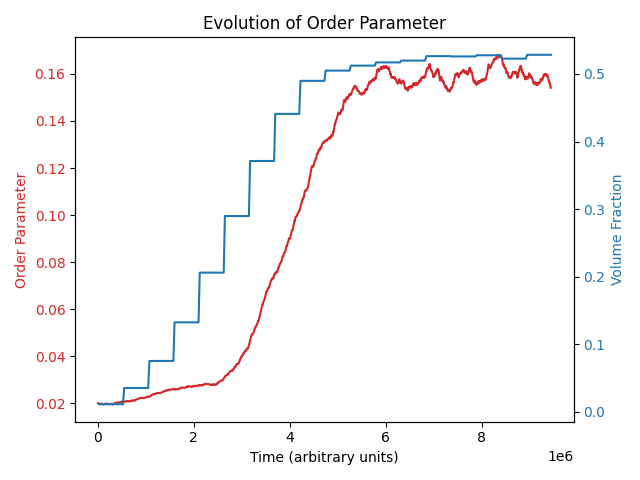
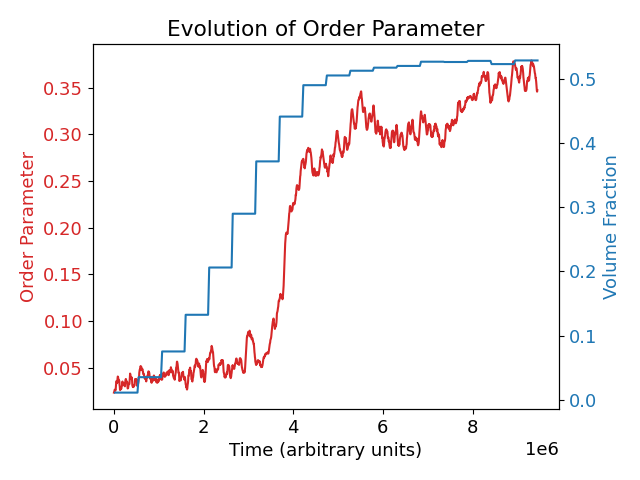
Reconfigured order parameter

Changed region(s): [[0.0, 0.0312, 0.9688, 0.9688]]

diff --git a/Phase_Structure/Rigid_Rods2/director_plot.py b/Phase_Structure/Rigid_Rods2/director_plot.py
@@ -4,9 +4,9 @@ from scipy.ndimage import uniform_filter1d  # for rolling average
 import pickle
 
 file_root = "output_T_0.5_time_"  # two underscores to match typo in previous code
-sampling_freq = 10  # only samples one in X files (must be integer)
+sampling_freq = 1  # only samples one in X files (must be integer)
 
-# plt.rcParams.update({"font.size": 18}) #for figures to go into latex at halfwidth
+plt.rcParams.update({"font.size": 13})  # for figures to go into latex at halfwidth
 
 # READ PARAMETER VALUES FROM LOG FILE
 
@@ -86,38 +86,16 @@ print(time_for_vf)
 
 # time_range = range(0, 3300000, 100000)  # FOR SIMPLICITY IN TESTING
 
-# DEFINE FUNCTION TO FIND DIRECTOR FROM OUTPUT DATA
+
 def order_param(data):
     """Input data in array of size Molecule Number x 3 x 3
 
-    Order param is defined as ave((3cos^2(theta)-1)/2) where theta is the angle between
-    the molecule director and mean director
-
     Input data will be rod_positions array which stores input data   
     First index gives molecule number
     Second index gives particle number within molecule (first/last)
     Third index gives the component of the position (x,y,z)
-    """
-    directors = data[:, 1, :] - data[:, 0, :]  # director vector for each molecule
-    mean_director = np.mean(directors, axis=0)
-    norm_mean_director = mean_director / np.linalg.norm(mean_director)
-    cosine_values = np.zeros_like(directors)
-    for index, vector in enumerate(directors):
-        cosine_values[index] = np.dot(
-            norm_mean_director, (vector / np.linalg.norm(vector))
-        )
-    order_param = np.mean((3 * np.square(cosine_values) - 1) / 2)
-    print(order_param)
-    return order_param
 
-
-def order_param2(data):
-    """Input data in array of size Molecule Number x 3 x 3
-
-    Input data will be rod_positions array which stores input data   
-    First index gives molecule number
-    Second index gives particle number within molecule (first/last)
-    Third index gives the component of the position (x,y,z)
+    Method for calculation of Order Param given by Eppenga (1984)
     """
     directors = data[:, 1, :] - data[:, 0, :]  # director vector for each molecule
     norm_directors = directors / np.linalg.norm(directors, axis=1).reshape(
@@ -136,7 +114,6 @@ def order_param2(data):
 # READ MOLECULE POSITIONS
 
 order_param_values = np.zeros(len(time_range))
-order_param_values2 = np.zeros(len(time_range))
 for i, time in enumerate(time_range):  # interate over dump files
     data_file = open(file_root + str(time) + ".dump", "r")
     extract_data = False  # start of file doesn't contain particle values
@@ -166,37 +143,17 @@ for i, time in enumerate(time_range):  # interate over dump files
 
     data_file.close()  # close data_file for time step t
     order_param_values[i] = order_param(rod_positions)  # evaluate order param at time t
-    order_param_values2[i] = order_param2(
-        rod_positions
-    )  # evaluate order param at time t
     print("T = " + str(time) + "/" + str(run_time))
 
+
 plt.plot(time_range, order_param_values)
-plt.plot(time_range, order_param_values2)
-plt.show()
-
 plt.plot(
-    time_range,
-    uniform_filter1d(abs(order_param_values), size=int(4e2)),
-    linestyle="--",
-)
-plt.plot(
-    time_range,
-    uniform_filter1d(abs(order_param_values2), size=int(4e2)),
-    linestyle="--",
-)
-plt.show()
-
-plt.plot(time_range, abs(order_param_values))
-plt.plot(
-    time_range,
-    uniform_filter1d(abs(order_param_values), size=int(4e2)),
-    linestyle="--",
+    time_range, uniform_filter1d(order_param_values, size=int(10)), linestyle="--",
 )
 plt.xlabel("Time (arbitrary units)")
 plt.ylabel("Order Parameter")
 plt.title("Evolution of Order Parameter")
-# plt.savefig("order_plot.png")
+plt.savefig("order_plot.png")
 plt.show()
 
 fig, ax1 = plt.subplots()
@@ -204,9 +161,7 @@ fig, ax1 = plt.subplots()
 color = "tab:red"
 ax1.set_xlabel("Time (arbitrary units)")
 ax1.set_ylabel("Order Parameter", color=color)
-ax1.plot(
-    time_range, uniform_filter1d(abs(order_param_values), size=int(4e2)), color=color
-)
+ax1.plot(time_range, uniform_filter1d(order_param_values, size=int(10)), color=color)
 ax1.tick_params(axis="y", labelcolor=color)
 
 ax2 = ax1.twinx()  # instantiate a second axes that shares the same x-axis
@@ -220,6 +175,6 @@ ax2.tick_params(axis="y", labelcolor=color)
 
 plt.title("Evolution of Order Parameter")
 fig.tight_layout()  # otherwise the right y-label is slightly clipped
-# plt.savefig("order_and_volfrac.png")
+plt.savefig("order_and_volfrac.png")
 plt.show()
 
